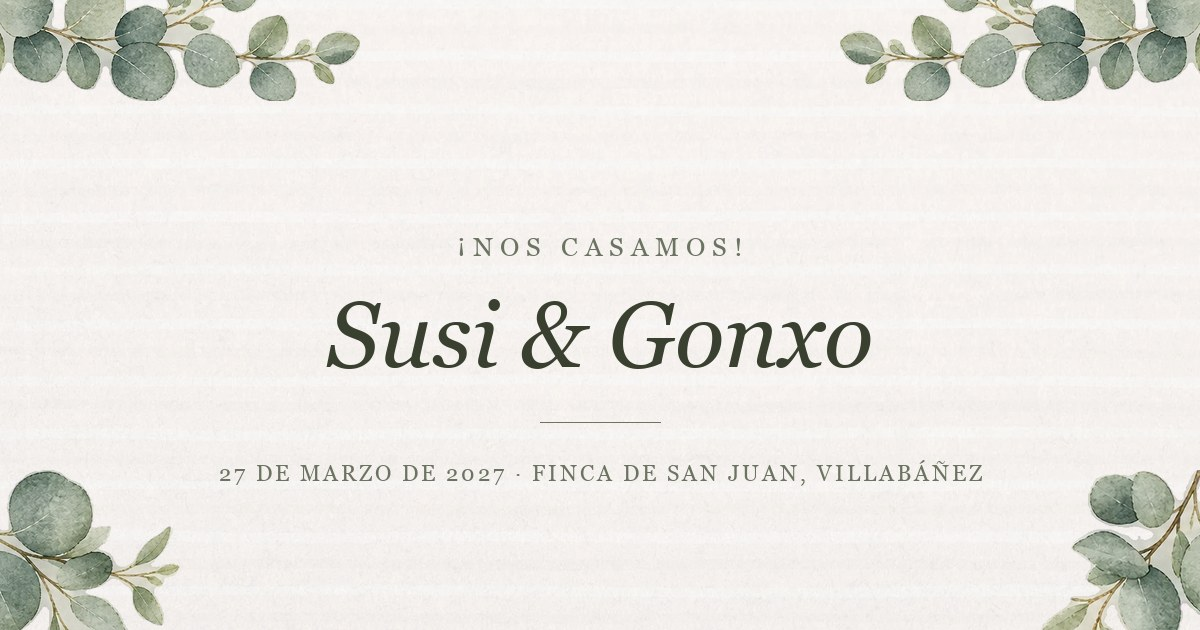
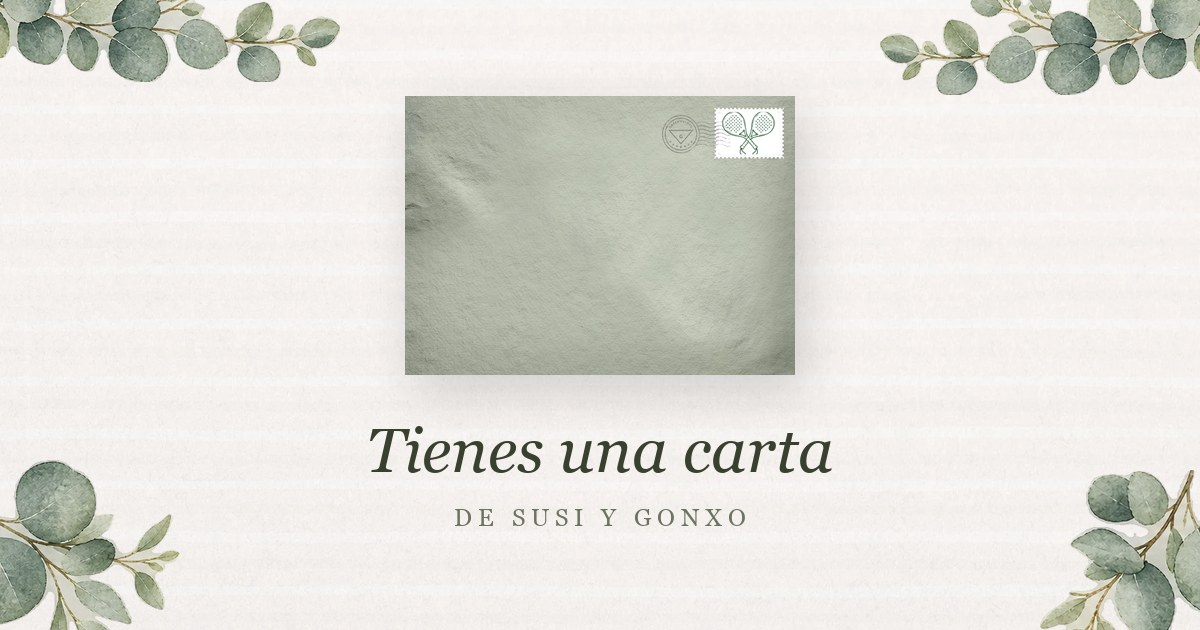
La tarjeta de compartir es la portada, no una cartela aparte
Había inventado una composición nueva con los nombres y la fecha. Lo que toca
es lo que ya se ve al abrir la invitación: el sobre sobre el papel, las cuatro
ramas de olivo asomando por los costados y «Tienes una carta».

diff --git a/scripts/tarjeta-compartir.py b/scripts/tarjeta-compartir.py
@@ -4,16 +4,17 @@ Dibuja la tarjeta que sale al pegar el enlace en WhatsApp, Instagram o X.
 
     python3 scripts/tarjeta-compartir.py
 
-Son 1200 × 630, la medida que piden todas las redes. Se guarda en
-`public/compartir.jpg` y la enlaza `wedding.seo.image`.
+Es la misma portada que se ve al abrir la invitación —el sobre sobre el papel,
+con las ramas de olivo asomando por los costados— recortada a 1200 × 630, que
+es la medida que piden todas las redes.
 
-Va en JPG a propósito, no en WebP como el resto de las imágenes: los robots que
-leen la vista previa —WhatsApp el primero— no siempre entienden WebP y se
-quedan sin enseñar nada.
+Se guarda en `public/compartir.jpg` y la enlaza `wedding.seo.image`. Va en JPG
+a propósito, no en WebP como el resto de las imágenes: los robots que leen la
+vista previa —WhatsApp el primero— no siempre entienden WebP y se quedan sin
+enseñar nada.
 
-PARA OTRA BODA: se cambian los textos y los colores de aquí abajo, se vuelve a
-lanzar y ya está. Las láminas del olivo y el papel salen de `public/`, así que
-si cambian ahí, cambian aquí.
+PARA OTRA BODA: se cambian los textos y colores de aquí abajo y se relanza. Las
+láminas salen de `public/`, así que si cambian ahí, cambian aquí.
 """
 from PIL import Image, ImageDraw, ImageFont
 from pathlib import Path
@@ -21,30 +22,32 @@ from pathlib import Path
 RAIZ = Path(__file__).resolve().parent.parent
 
 # --- lo que cambia de una boda a otra ---------------------------------------
-NOMBRES   = 'Susi & Gonxo'
-ANTETITULO = '¡NOS CASAMOS!'
-PIE       = '27 DE MARZO DE 2027 · FINCA DE SAN JUAN, VILLABÁÑEZ'
-TINTA     = (57, 64, 47)      # --color-ink
-SUAVE     = (107, 115, 97)    # --color-primary
-PAPEL     = RAIZ / 'public/papel.webp'
-# (lámina, lado, ancho, y, girada) — dos arriba y dos abajo, enmarcando
+TITULO   = 'Tienes una carta'          # wedding.envelope.preTitle
+SUBTITULO = 'DE SUSI Y GONXO'          # wedding.envelope.preSubtitle, en versalita
+TINTA    = (57, 64, 47)                # --color-ink
+SUAVE    = (107, 115, 97)              # --color-primary
+PAPEL    = 'public/papel.webp'
+SOBRE    = 'public/sobre/frente.webp'
+
+# Las mismas cuatro de la portada: el tallo nace del costado y las hojas miran
+# hacia dentro. (lámina, lado, ancho, y, del revés)
 RAMAS = [
-    ('public/olivo/guirnalda.webp', 'izq', 430, -30, False),
-    ('public/olivo/guirnalda.webp', 'der', 430, -30, False),
-    ('public/olivo/racimo.webp',    'izq', 250, 470, True),
-    ('public/olivo/hojas.webp',     'der', 230, 470, True),
+    ('public/olivo/guirnalda.webp', 'izq', 400, -40, False),
+    ('public/olivo/guirnalda.webp', 'der', 380, -20, False),
+    ('public/olivo/racimo.webp',    'izq', 240, 460, True),
+    ('public/olivo/hojas.webp',     'der', 220, 470, True),
 ]
 
 W, H = 1200, 630
-SERIF        = '/System/Library/Fonts/Supplemental/Georgia Italic.ttf'
-SERIF_RECTO  = '/System/Library/Fonts/Supplemental/Georgia.ttf'
+SOBRE_ANCHO = 390
+SERIF       = '/System/Library/Fonts/Supplemental/Georgia Italic.ttf'
+SERIF_RECTO = '/System/Library/Fonts/Supplemental/Georgia.ttf'
 
 
 def centrado(d, y, texto, fuente, color, espaciado=0):
     """Escribe centrado. Con espaciado, letra a letra: Pillow no lo trae."""
     if not espaciado:
-        an = d.textlength(texto, font=fuente)
-        d.text(((W - an) / 2, y), texto, font=fuente, fill=color)
+        d.text(((W - d.textlength(texto, font=fuente)) / 2, y), texto, font=fuente, fill=color)
         return
     an = sum(d.textlength(c, font=fuente) + espaciado for c in texto) - espaciado
     x = (W - an) / 2
@@ -53,36 +56,44 @@ def centrado(d, y, texto, fuente, color, espaciado=0):
         x += d.textlength(c, font=fuente) + espaciado
 
 
+def encajar(ruta, ancho):
+    im = Image.open(RAIZ / ruta).convert('RGBA')
+    return im.resize((ancho, round(im.height * ancho / im.width)), Image.LANCZOS)
+
+
 def main():
     # el mismo papel de la invitación, recortado a la proporción de la tarjeta
-    papel = Image.open(PAPEL).convert('RGB')
+    papel = Image.open(RAIZ / PAPEL).convert('RGB')
     escala = max(W / papel.width, H / papel.height)
     papel = papel.resize((round(papel.width * escala), round(papel.height * escala)), Image.LANCZOS)
-    izq = (papel.width - W) // 2
-    arr = (papel.height - H) // 2
+    izq, arr = (papel.width - W) // 2, (papel.height - H) // 2
     lienzo = papel.crop((izq, arr, izq + W, arr + H)).convert('RGBA')
 
-    # una rama en cada esquina de arriba, asomando desde fuera como en la portada
-    for ruta, lado, ancho, y, girada in RAMAS:
-        rama = Image.open(RAIZ / ruta).convert('RGBA')
-        rama = rama.resize((ancho, round(rama.height * ancho / rama.width)), Image.LANCZOS)
-        if girada:
+    for ruta, lado, ancho, y, del_reves in RAMAS:
+        rama = encajar(ruta, ancho)
+        if del_reves:
             rama = rama.transpose(Image.FLIP_TOP_BOTTOM)
         if lado == 'der':
             rama = rama.transpose(Image.FLIP_LEFT_RIGHT)
-        x = -70 if lado == 'izq' else W - ancho + 70
-        lienzo.alpha_composite(rama, (x, y))
+        lienzo.alpha_composite(rama, (-60 if lado == 'izq' else W - ancho + 60, y))
+
+    # el sobre, con la sombra suave que lleva en pantalla
+    sobre = encajar(SOBRE, SOBRE_ANCHO)
+    sx, sy = (W - SOBRE_ANCHO) // 2, 96
+    sombra = Image.new('RGBA', lienzo.size, (0, 0, 0, 0))
+    ImageDraw.Draw(sombra).rectangle([sx + 10, sy + 18, sx + SOBRE_ANCHO + 6, sy + sobre.height + 14],
+                                     fill=(30, 30, 18, 46))
+    from PIL import ImageFilter
+    lienzo.alpha_composite(sombra.filter(ImageFilter.GaussianBlur(22)))
+    lienzo.alpha_composite(sobre, (sx, sy))
 
     d = ImageDraw.Draw(lienzo)
-    centrado(d, 232, ANTETITULO, ImageFont.truetype(SERIF_RECTO, 26), SUAVE, espaciado=7)
-    centrado(d, 282, NOMBRES,    ImageFont.truetype(SERIF, 92),       TINTA)
-    d.line([(W / 2 - 60, 422), (W / 2 + 60, 422)], fill=SUAVE + (120,), width=1)
-    centrado(d, 460, PIE, ImageFont.truetype(SERIF_RECTO, 22), SUAVE, espaciado=3)
+    centrado(d, sy + sobre.height + 40, TITULO, ImageFont.truetype(SERIF, 62), TINTA)
+    centrado(d, sy + sobre.height + 128, SUBTITULO, ImageFont.truetype(SERIF_RECTO, 24), SUAVE, espaciado=6)
 
     salida = RAIZ / 'public/compartir.jpg'
     lienzo.convert('RGB').save(salida, 'JPEG', quality=88, optimize=True, progressive=True)
-    kb = salida.stat().st_size // 1024
-    print(f'{salida.relative_to(RAIZ)} · {lienzo.size[0]}×{lienzo.size[1]} · {kb} kB')
+    print(f'{salida.relative_to(RAIZ)} · {W}×{H} · {salida.stat().st_size // 1024} kB')
 
 
 if __name__ == '__main__':

diff --git a/README.md b/README.md
@@ -105,9 +105,11 @@ la propia configuración, sin tocar código.
 | Título y texto de la vista previa | `wedding.seo.title` y `.description` |
 | Dominio | `wedding.seo.url`, o `NEXT_PUBLIC_SITE_URL` |
 
-La tarjeta la dibuja `scripts/tarjeta-compartir.py`, que reutiliza el papel y
-las ramas de olivo de `public/`. Para otra boda se cambian los textos y colores
-de la cabecera del script y se relanza:
+La tarjeta es la **misma portada que se ve al abrir la invitación** —el sobre
+sobre el papel, con las ramas de olivo asomando por los costados— recortada a
+1200 × 630. La dibuja `scripts/tarjeta-compartir.py` con las láminas que ya
+están en `public/`. Para otra boda se cambian los textos y colores de la
+cabecera del script y se relanza:
 
 ```bash
 python3 scripts/tarjeta-compartir.py
